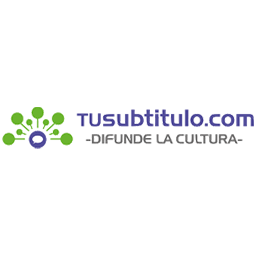
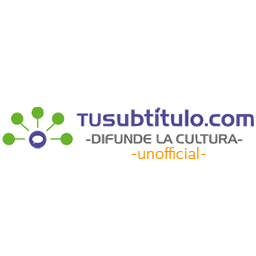
Clearly stated the unofficialness
Clearly stated the unofficialness of the addon and the logo/icon have been changed to NOT be equal to the ones on the original page.

diff --git a/README.md b/README.md
@@ -16,41 +16,40 @@
 
 This addon is based on previous work by m0r3 and inifinicode on the original Subtitulos.es addon and its first port to TuSubtitulo.com
 If you are a bit lost let me explain:
-Subtitulos.es was a very well known site where users could translate series subtitles from english to Spanish collectively. It worked incredibly well and was useful for many people and one of the main sources for spanish subtitles sometimes taking even less than 24 hours to release a translation. All that ended (or so we thought) when the Spanish authorities threatened the owner of the page and, out of an abundance of caution, he decided to close the page.
+Subtitulos.es was a very well known site where users could translate series subtitles from English to Spanish collectively. It worked incredibly well and was useful for many people and one of the main sources for Spanish subtitles sometimes taking even less than 24 hours to release a translation. All that ended (or so we thought) when the Spanish authorities threatened the owner of the page and, out of an abundance of caution, he decided to close the page.
 Soon after that closure TuSubtitulo.com appeared on the radar holding all assets of Subtitulos.es such as the design and the actual files and continued with the 'legacy'
-The only downside being that the new administrators didn't believe in access from outside the page and made it very hard to scrape the content (notice very hard does not mean imposible).
-Fast forward to now, the previus supporters have stopped giving updates and I'm taking responsibiity of this addon.
+The only downside being that the new administrators didn't believe in ease of use and made it very hard to develop a similar product to the old addon (notice very hard does not mean impossible).
+Fast forward to now, the previous supporters have stopped giving updates and I'm taking responsibility of this addon.
 
 
 ## Installation
 
-You can either download it from the releases page of this repository or look for it in the official kodi repository from within kodi itself.
+You can either download it from the releases page of this repository or look for it in the official Kodi repository from within Kodi itself.
 Note: since they have to manually accept updates it is possible that this one is, at times, more updated than the other one
 
 
 ## Features
 
-- Detection of incomplete subtitles (and consecuent discarding)
+- Detection of incomplete subtitles (and consequent discarding)
 - Scrapping every version
 - I could continue but right now it is very basic
 
 
 ## Bugs
 
-- None so far
+- Be careful with another repo overwriting the addon with a different one, this happened the first days after the release but could reappear.
 
 
 ## TODO
 
 - Add rating support, TuSubtitulo doesn't offer ratings but I'll figure something out
-- Specify version in subtitle name, the capability is there so this one is pretty easy
--
 
 
 ## Contributing
 
+First of all you can donate by going to [TuSubtitulo](http://tusubtitulo.com) and help maintain the servers needed for everything to work. The request volume of this addon to said page doesn't exceed that of a human being accessing through a web browser so your usage won't bring the servers down but collaborations are always appreciated.
 There are many ways to contribute to any project, one of the best ones is to report bugs, the best practice for doing so is to attach a logfile (http://kodi.wiki/view/Log_file/Easy) and explain clearly under which circumstances the error was produced.
-Another way is to submit a pull request, they are very welcome since currently I'm alone so feel free to take on a bug by yourself or add any functionality you deem necesary.
+Another way is to submit a pull request, they are very welcome since currently I'm alone so feel free to take on a bug by yourself or add any functionality you deem necessary.
 
 
 ## License
